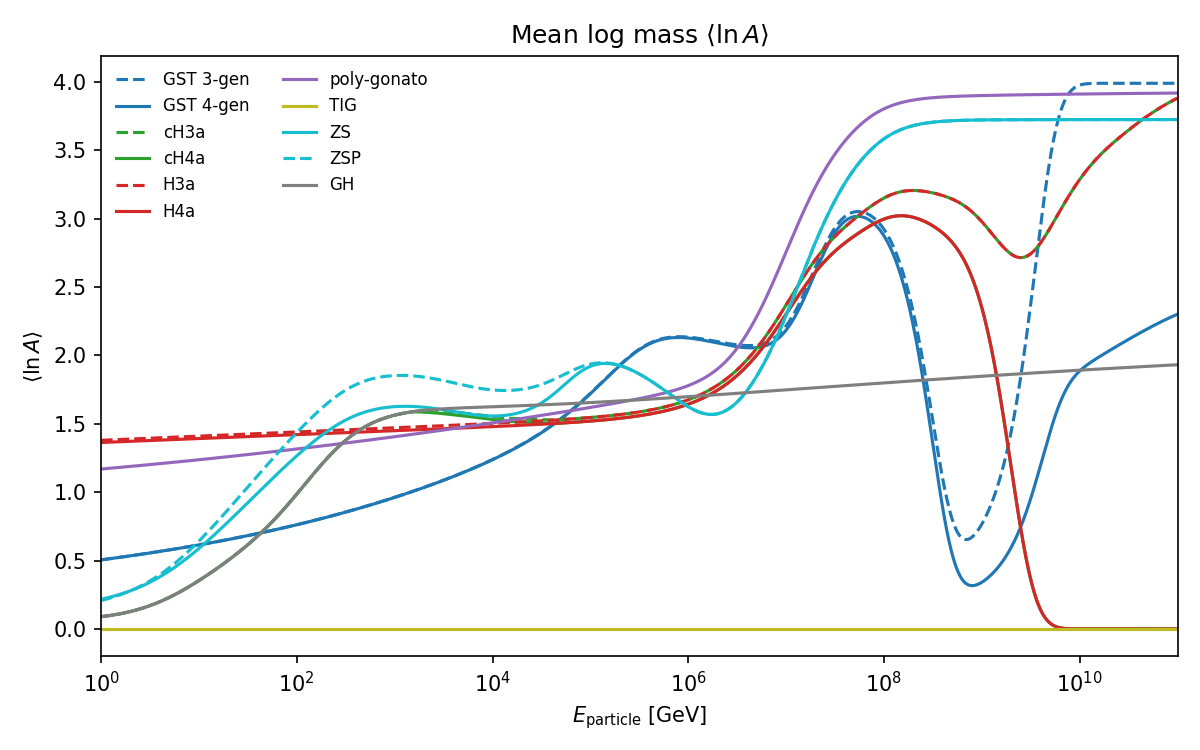
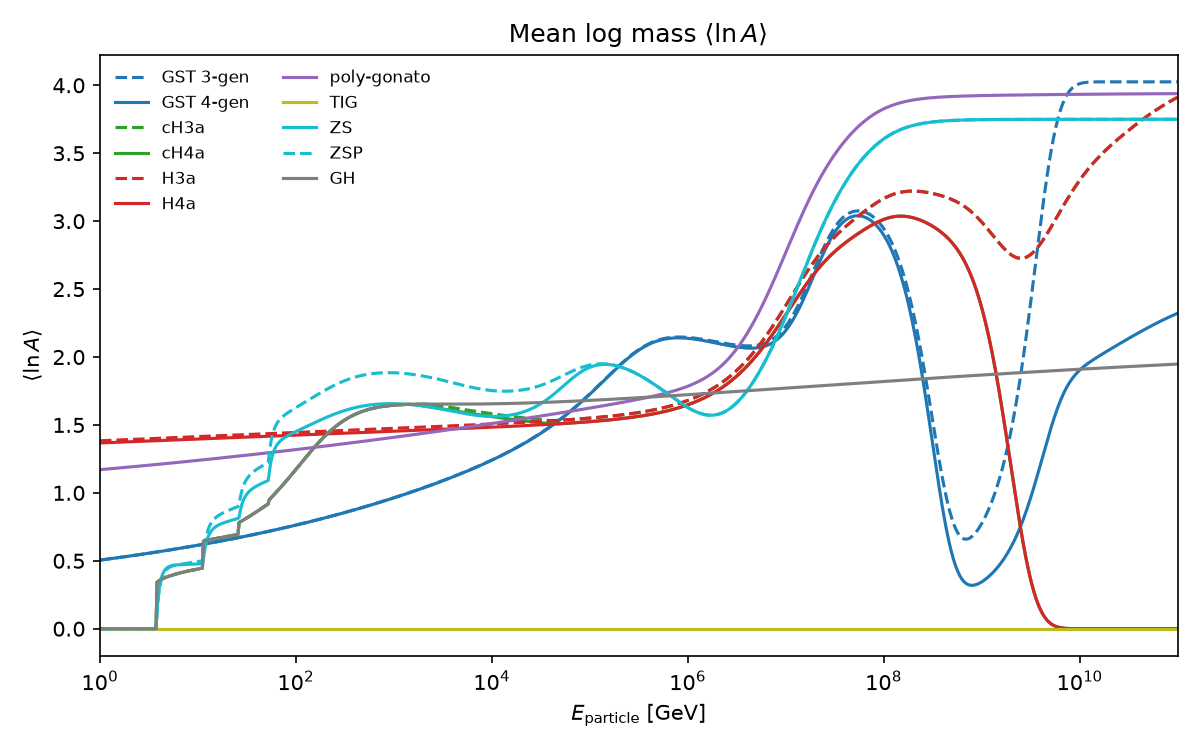
Regenerate documentation plots; 2.2.0
Plots from docs/generate_plots.py with the rigidity cutoff, Fe-56 and the
kinetic-energy Gaisser-Honda / Zatsepin-Sokolskaya fixes. Minor version:
nucleus_ids now carry 5626 instead of 5426, and nucleon-only models raise
where they returned zeros.

Claude-Session: https://claude.ai/code/session_01BWbq25UyTvcreNbZMEWmKQ

diff --git a/crflux/__init__.py b/crflux/__init__.py
@@ -1,3 +1,3 @@
 """Parameterizations of the cosmic ray flux at Earth."""
 
-__version__ = "2.1.1"
+__version__ = "2.2.0"
